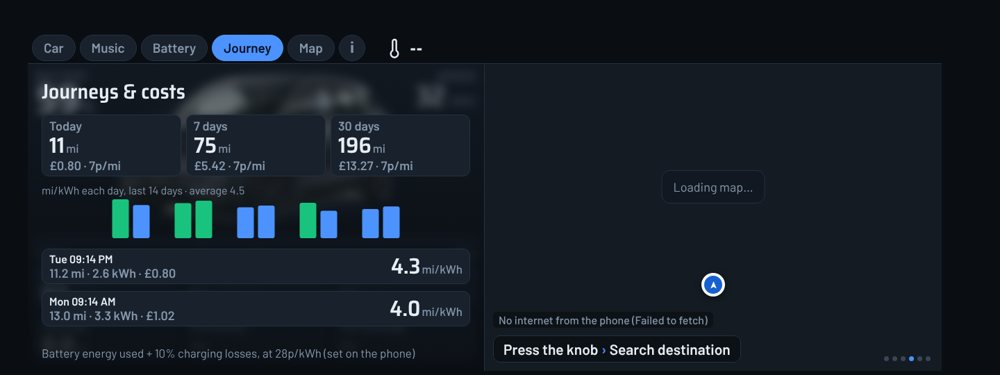
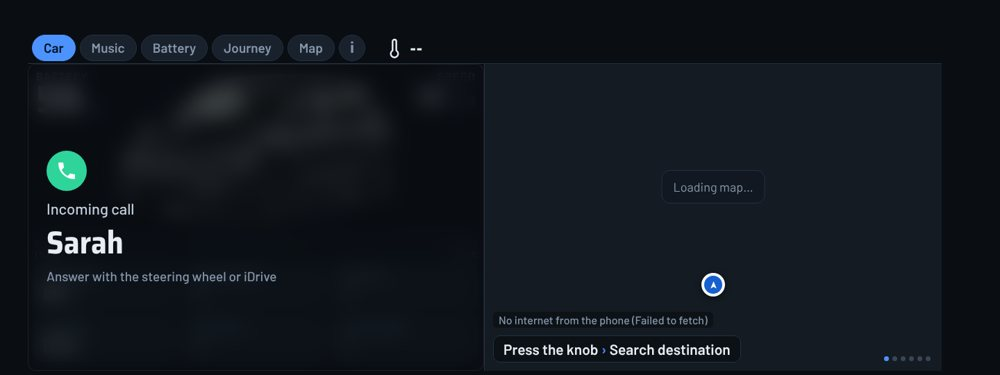
Docs: diagrams as images so the GitHub app shows them; fix call screenshot
Claude-Session: https://claude.ai/code/session_012qQKmKQnTSeY3dbxDfNLy6

diff --git a/README.md b/README.md
@@ -40,11 +40,7 @@ Incoming calls show a panel with the caller's name. Answering is still done from
 
 ## Connect
 
-```mermaid
-flowchart LR
-  P["Phone<br>i3 Dash + BMW Connected"] -- USB cable --> C["Car<br>iDrive screen"]
-  P -. mobile data .-> N["Maps, search,<br>weather, speed limits"]
-```
+![Phone to car connection](docs/images/i3dash/connect-flow.png)
 
 1. Plug the phone into the car's USB port.
 2. Open the app. The card at the top shows three ticks: phone linked, car link ready, connected.
@@ -61,12 +57,7 @@ For music, start a song on the phone. If the radio keeps playing, press MEDIA on
 
 ## Send a place from your phone
 
-```mermaid
-flowchart LR
-  A["Google Maps, a text,<br>a website, or typed in"] --> B["Share → i3 Dash"]
-  B --> C["Pick the result → Navigate"]
-  C --> D["Car map shows<br>and speaks the route"]
-```
+![Sending a place to the car](docs/images/i3dash/send-flow.png)
 
 Share a place from Google Maps or any app and choose **i3 Dash**, or open the app and tap **Send to car**. You can type a place, a postcode, a `///three.word.address`, or paste a link. If the car is not showing i3 Dash yet, the destination waits and starts when it appears. Tap **Save** to keep places like Home and Work, which also show up when you search from the car.
 
